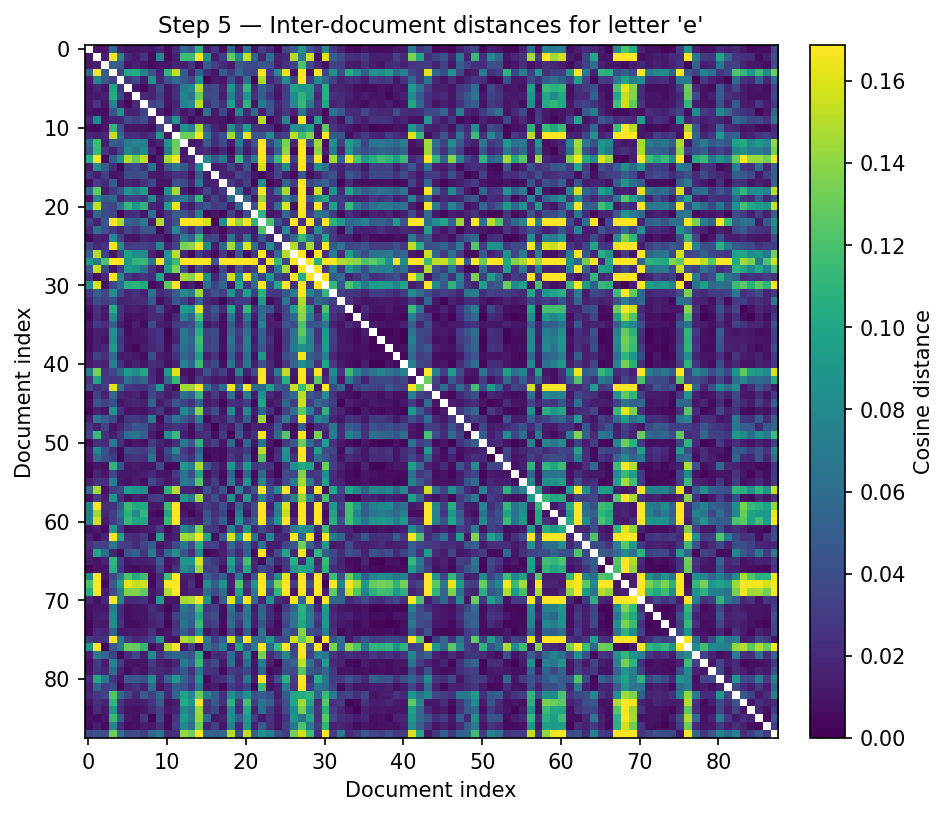
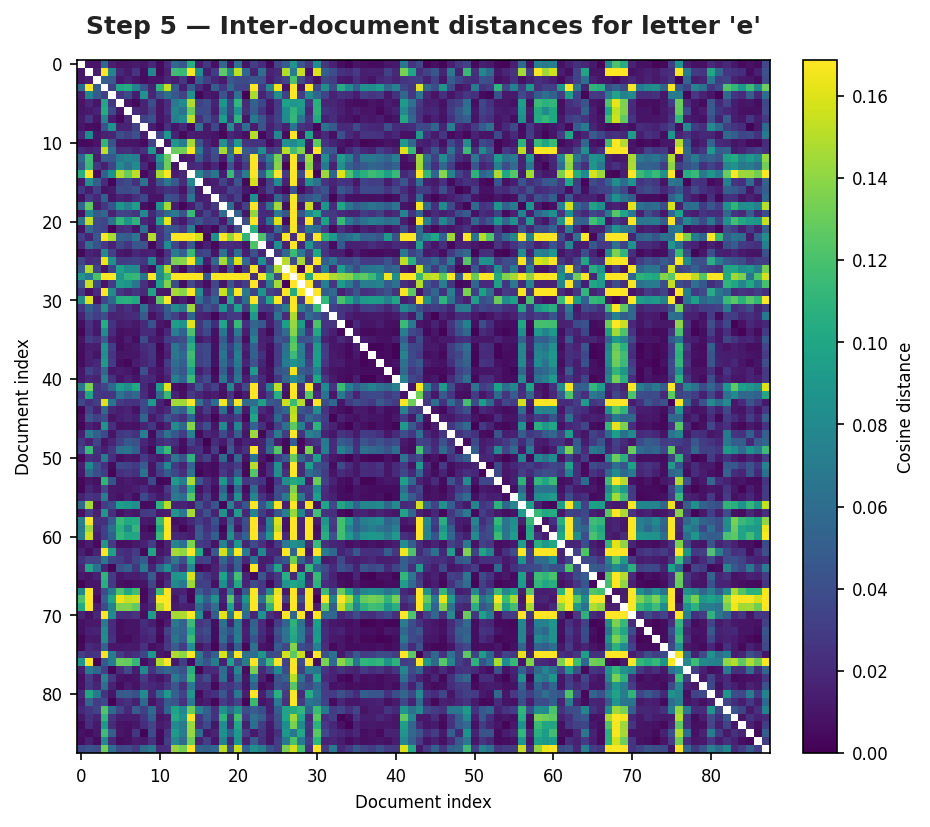
readme image titles change

diff --git a/scripts/generate_readme_images.py b/scripts/generate_readme_images.py
@@ -86,8 +86,8 @@ def polygon_from_flat(coords):
 
 def make_colour_map(n, cmap_name="hsv"):
     """Return *n* distinct RGBA colours from a matplotlib colourmap."""
-    cmap = plt.cm.get_cmap(cmap_name, max(n, 1))
-    return [cmap(i) for i in range(n)]
+    cmap = plt.colormaps[cmap_name].resampled(n)
+    return [cmap(i / max(n - 1, 1)) for i in range(n)]
 
 
 def top1_label(labels_dict):
@@ -101,7 +101,7 @@ def generate_step1():
     plt.rcParams.update({
         "figure.dpi": 120,
         "font.size": 8,
-        "axes.titlesize": 11,
+        "axes.titlesize": 21,
     })
 
     print("Step 1: CharNet detections …")
@@ -152,7 +152,8 @@ def generate_step1():
     ax.set_xlim(0, img.shape[1])
     ax.set_ylim(img.shape[0], 0)
     ax.axis("off")
-    ax.set_title("Step 1 — CharNet word detections", fontsize=12)
+    ax.set_title("Step 1 — CharNet word detections", fontsize=28,
+                 fontweight="bold", color="#222",)
     save(fig, "step1_charnet")
 
 
@@ -223,7 +224,7 @@ def generate_step2_beforeafter():
 
     axes[0, 0].set_ylabel("raw crop", fontsize=9, color="#666")
     axes[1, 0].set_ylabel("40×32", fontsize=9, color="#666")
-    fig.suptitle("Character extraction: raw → normalised",
+    fig.suptitle("Step 2 - Character extraction: raw → normalised",
                  fontsize=13, fontweight="bold", color="#222", y=1.02)
     save(fig, "step2_beforeafter")
 
@@ -312,8 +313,7 @@ def generate_step3():
     ax_hist.legend(fontsize=9, framealpha=0.9)
     ax_hist.spines["top"].set_visible(False)
     ax_hist.spines["right"].set_visible(False)
-    ax_hist.set_title("Stroke angle distribution", fontsize=11,
-                      fontweight="bold", color="#222")
+    ax_hist.set_title("Stroke angle distribution", fontsize=9, color="#222")
 
     # Roman examples
     ax_rom = fig.add_subplot(gs[0, 1])
@@ -322,6 +322,9 @@ def generate_step3():
     # Italic examples
     ax_ita = fig.add_subplot(gs[1, 1])
     _draw_char_strip(ax_ita, italic_examples[:12], "Italic samples", "#E74C3C")
+
+    fig.suptitle("Step 3 - Italic Detection via Structure Tensor",
+                 fontsize=12, fontweight="bold", color="#222", y=1.02)
 
     save(fig, "step3_italic")
 
@@ -444,8 +447,40 @@ def generate_step4():
             doc_symbols.append(("*", "#999"))
 
     # --- Re-use plotting from proximity script -----------------------------
-    _plot_grid(doc_dirs, letter_grid, letters, OUT_DIR / "step4_clusters",
-               doc_labels=doc_labels, doc_symbols=doc_symbols)
+    fig4 = _plot_grid(
+        doc_dirs, letter_grid, letters, OUT_DIR / "step4_clusters",
+        doc_labels=doc_labels, doc_symbols=doc_symbols,
+        save_fig=False  # defer saving so we can tweak the figure below
+    )
+    # allow post-processing such as adding a global title
+    fig4.suptitle("Step 4 — Representative italic cluster means", fontweight="bold",
+                  fontsize=14, y=1.02, color="#222")
+
+    # --- Add legend below grid ---
+    legend_items = [
+        ("\u2020", "tab:blue", "Rodríguez de Ábrego"),
+        ("\u2021", "tab:orange", "Lyra"),
+        ("*", "#999", "Unknown")
+    ]
+    # Position legend below the grid
+    y_legend = 0.07  # relative to figure (negative = below)
+    x_start = 0.4
+    x_gap = 0.18
+    
+    fig4.text(x_start - 0.2, y_legend, "Traditional Attribution:",
+                  fontsize=11, fontweight="bold", color="gray",
+                  va="center", ha="left")
+    for i, (sym, color, label) in enumerate(legend_items):
+        if label == "Unknown":
+            x_gap = 0.13  # less gap for the last item
+        x = x_start + i * x_gap
+        fig4.text(x, y_legend, "-",
+                  fontsize=11, fontweight="bold", color="black",
+                  bbox=dict(boxstyle="circle,pad=0.2", edgecolor=color, facecolor="white", linewidth=1.5),
+                  va="center", ha="center")
+        fig4.text(x + 0.02, y_legend, label,
+                  fontsize=11, color="black", va="center", ha="left")
+    save(fig4, "step4_clusters")
 
 
 # ===================================================================
@@ -481,8 +516,8 @@ def generate_step5():
 
     fig, ax = plt.subplots(figsize=(7, 6))
     im = ax.imshow(display, cmap="viridis", vmin=0, vmax=vmax)
-    ax.set_title(f"Step 5 — Inter-document distances for letter '{target}'",
-                 fontsize=11)
+    ax.set_title(f"Step 5 — Inter-document distances for letter '{target}'", 
+                 fontweight="bold", fontsize=12, y=1.02, color="#222")
     ax.set_xlabel("Document index")
     ax.set_ylabel("Document index")
     fig.colorbar(im, ax=ax, fraction=0.046, pad=0.04, label="Cosine distance")
@@ -519,7 +554,7 @@ def generate_step6():
         ax.set_title(title, fontsize=11)
         ax.axis("off")
 
-    fig.suptitle("Step 6 — A contrario analysis", fontsize=13, y=1.0)
+    fig.suptitle("Step 6 — A contrario analysis", fontweight="bold", fontsize=15, y=1.02, color="#222")
     fig.tight_layout()
     save(fig, "step6_acontrario")
 

diff --git a/scripts/select_clusters_by_proximity.py b/scripts/select_clusters_by_proximity.py
@@ -33,6 +33,7 @@ from typing import Iterable
 
 import numpy as np
 from sklearn.metrics.pairwise import pairwise_distances
+import matplotlib.pyplot as plt
 
 # Printer display: symbol + color, matching the LaTeX convention.
 # Keyed by the short printer name (last token of the full name).
@@ -164,7 +165,6 @@ def _choose_best_per_doc(
 
     dists = pairwise_distances(means, metric="cosine")
 
-    print(f"Strategy: {strategy}")
     if strategy == "argmin":
         counts = np.zeros(n, dtype=int)
         for i in range(n - 1):
@@ -232,14 +232,30 @@ def _plot_grid(
     doc_dirs: list[Path],
     grid: dict[str, list[np.ndarray | None]],
     letters: list[str],
-    out_path: Path,
+    out_path: Path | None = None,
     doc_labels: list[str] | None = None,
     doc_symbols: list[tuple[str, str]] | None = None,
-):
-    """Save a simple grid of selected images (like the README figure).
+    save_fig: bool = True,
+) -> plt.Figure:
+    """Create (and optionally save) a simple grid of selected images.
 
     *doc_labels* provides a string to show above each document column.
     *doc_symbols* is a list of (symbol, color) tuples matching the docs.
+
+    Parameters
+    ----------
+    out_path
+        Base path where PNG/SVG will be written.  Only used if *save_fig*
+        is ``True``; if ``None`` the figure is not written even when
+        *save_fig* is ``True``.
+    save_fig
+        If ``False``, the figure will be returned but not saved; the caller
+        can modify it (add suptitle, annotations) and save manually.
+
+    Returns
+    -------
+    matplotlib.figure.Figure
+        The created figure object.
     """
     import matplotlib
 
@@ -303,7 +319,7 @@ def _plot_grid(
                 # draw the index number in black with a colored circle around it
                 bbox = None
                 if sym_char:
-                    bbox = dict(boxstyle="circle,pad=0.2",
+                    bbox = dict(boxstyle=f"circle,pad={0.2 if int(num) >= 10 else 0.4}",
                                 edgecolor=sym_color, facecolor="white",
                                 linewidth=1.2)
                 ax.text(
@@ -314,13 +330,16 @@ def _plot_grid(
                     bbox=bbox,
                 )
 
-    # save in both png and svg formats
-    base = str(out_path)
-    root, ext = os.path.splitext(base)
-    for fmt in ("png", "svg"):
-        fname = root + "." + fmt
-        fig.savefig(fname, bbox_inches="tight")
-        print(f"Saved grid to {fname}")
+    # fig.tight_layout()
+    if save_fig and out_path is not None:
+        # save in both png and svg formats
+        base = str(out_path)
+        root, ext = os.path.splitext(base)
+        for fmt in ("png", "svg"):
+            fname = root + "." + fmt
+            fig.savefig(fname, bbox_inches="tight")
+            print(f"Saved grid to {fname}")
+    return fig
 
 
 
@@ -359,15 +378,12 @@ def main(argv=None):
 
     index_map = _load_doc_index_map(args.csv) if args.csv else None
     printer_map = _load_doc_printer_map(args.csv) if args.csv else {}
-    print(index_map)
-    print(len(index_map), "documents in index map")
 
     doc_dirs, grid = select_clusters(
         args.corpus, letters, italic_thresh=args.italic_threshold,
         index_map=index_map,
         strategy=args.strategy,
     )
-    print(doc_dirs)
 
     # build display labels/symbols based on metadata
     doc_labels: list[str] = []
